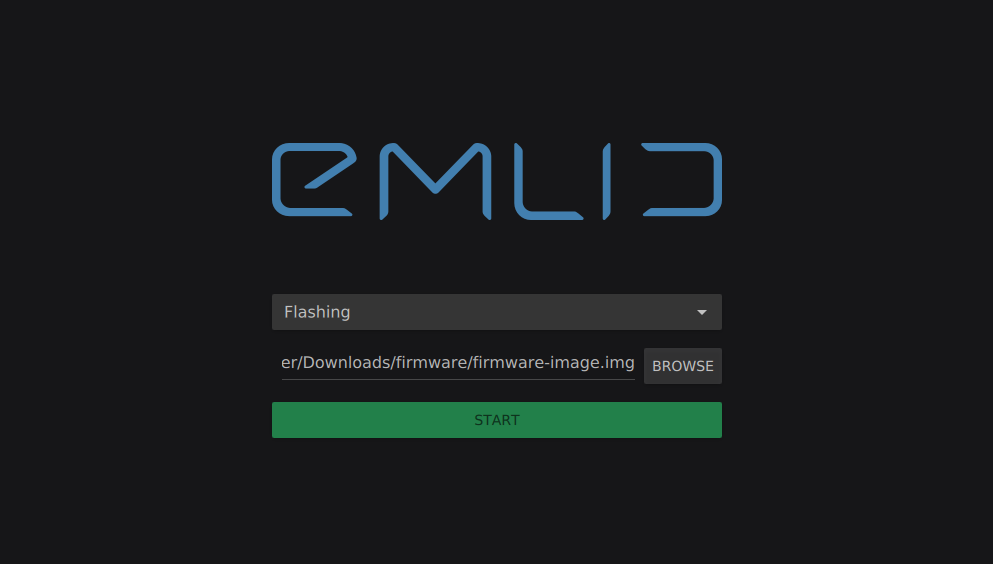
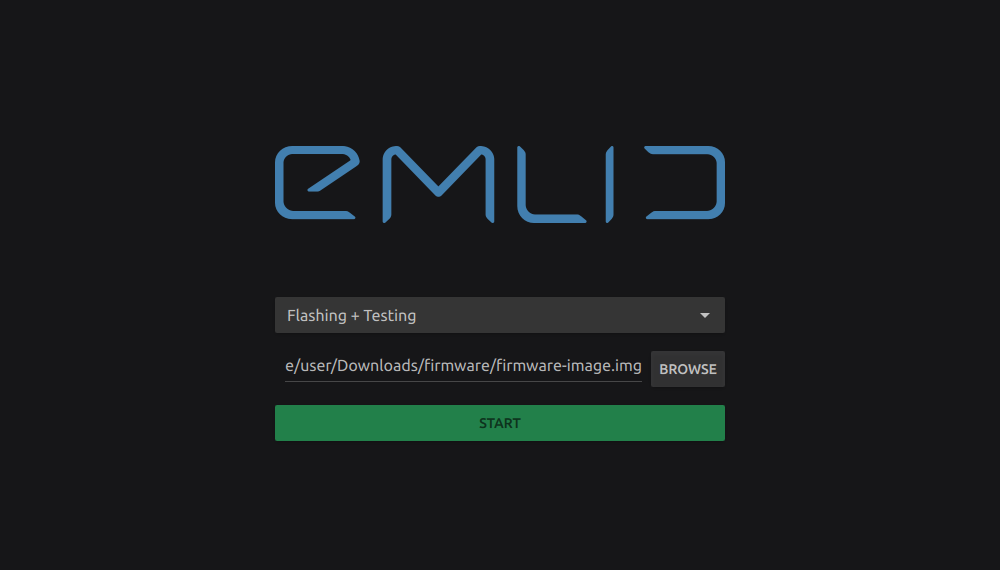
flasher: update screenshots

diff --git a/docs/flasher/gui.md b/docs/flasher/gui.md
@@ -75,11 +75,11 @@ Log files can be found at `"C:\Users\<username>\AppData\Local\Emlid\Neutis Manuf
 
 ## Flashing process
 
-Session starts with initial window prompting you to choose mode (flashing or testing).
+Session starts with initial window prompting you to choose mode (flashing, testing or both).
 
 <div style="text-align:center"><img src ="../../img/flasher/start_screen.png"></div>
 
-In flashing mode you also need to select firmware image.
+In `Flashing + Testing` mode you also need to select firmware image.
 
 <div style="text-align:center"><img src ="../../img/flasher/firmware_selected.png"></div>
 
